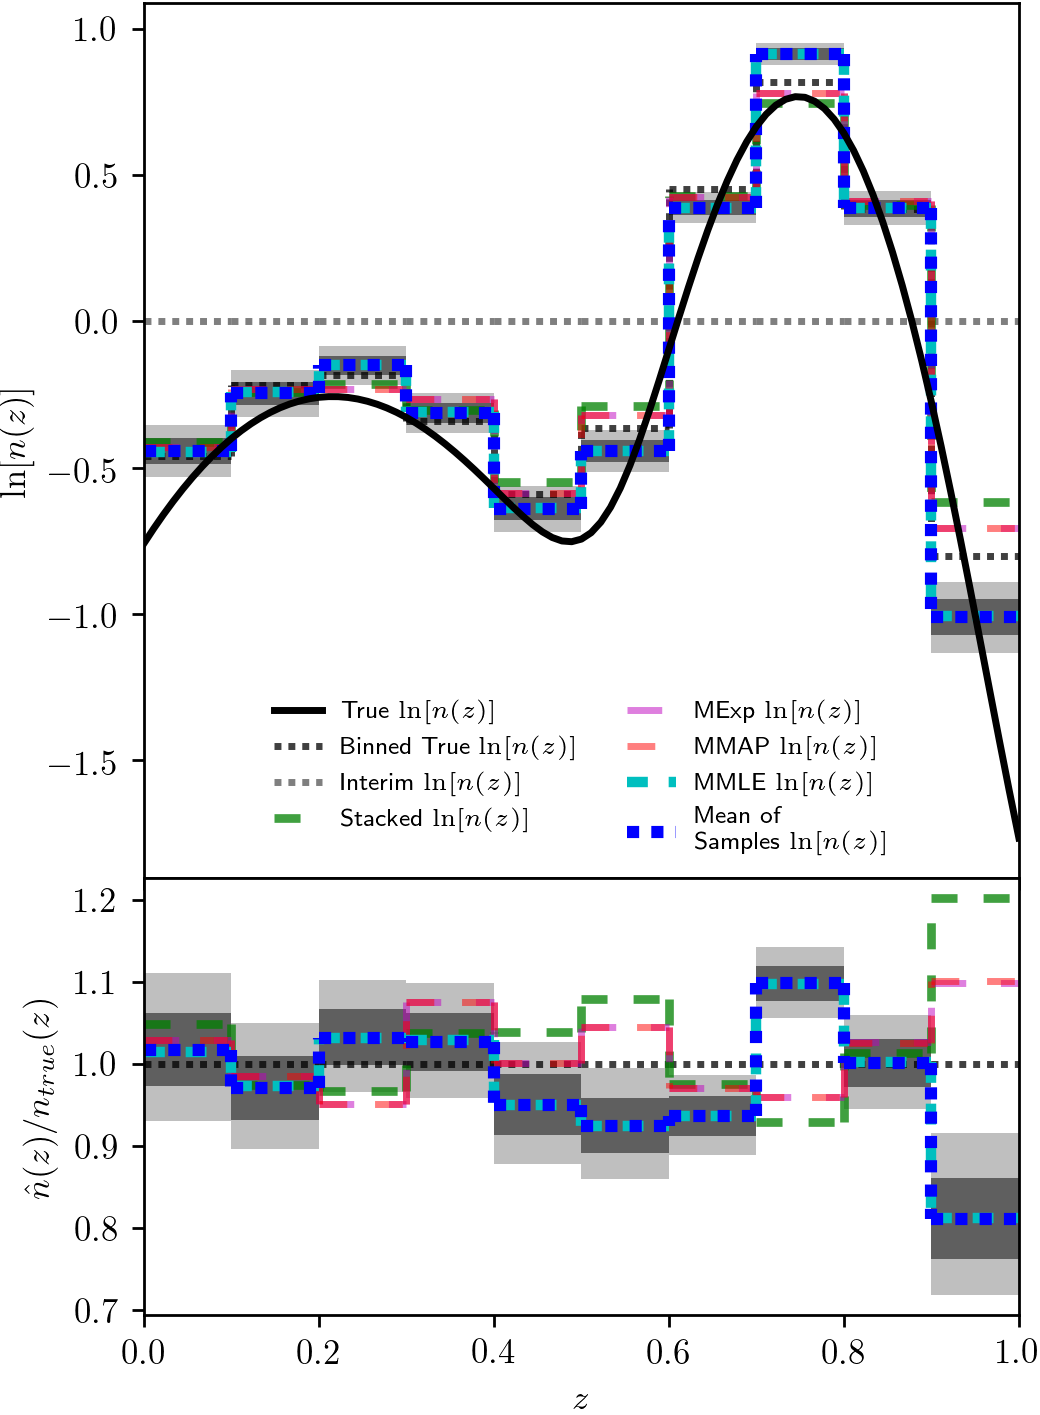
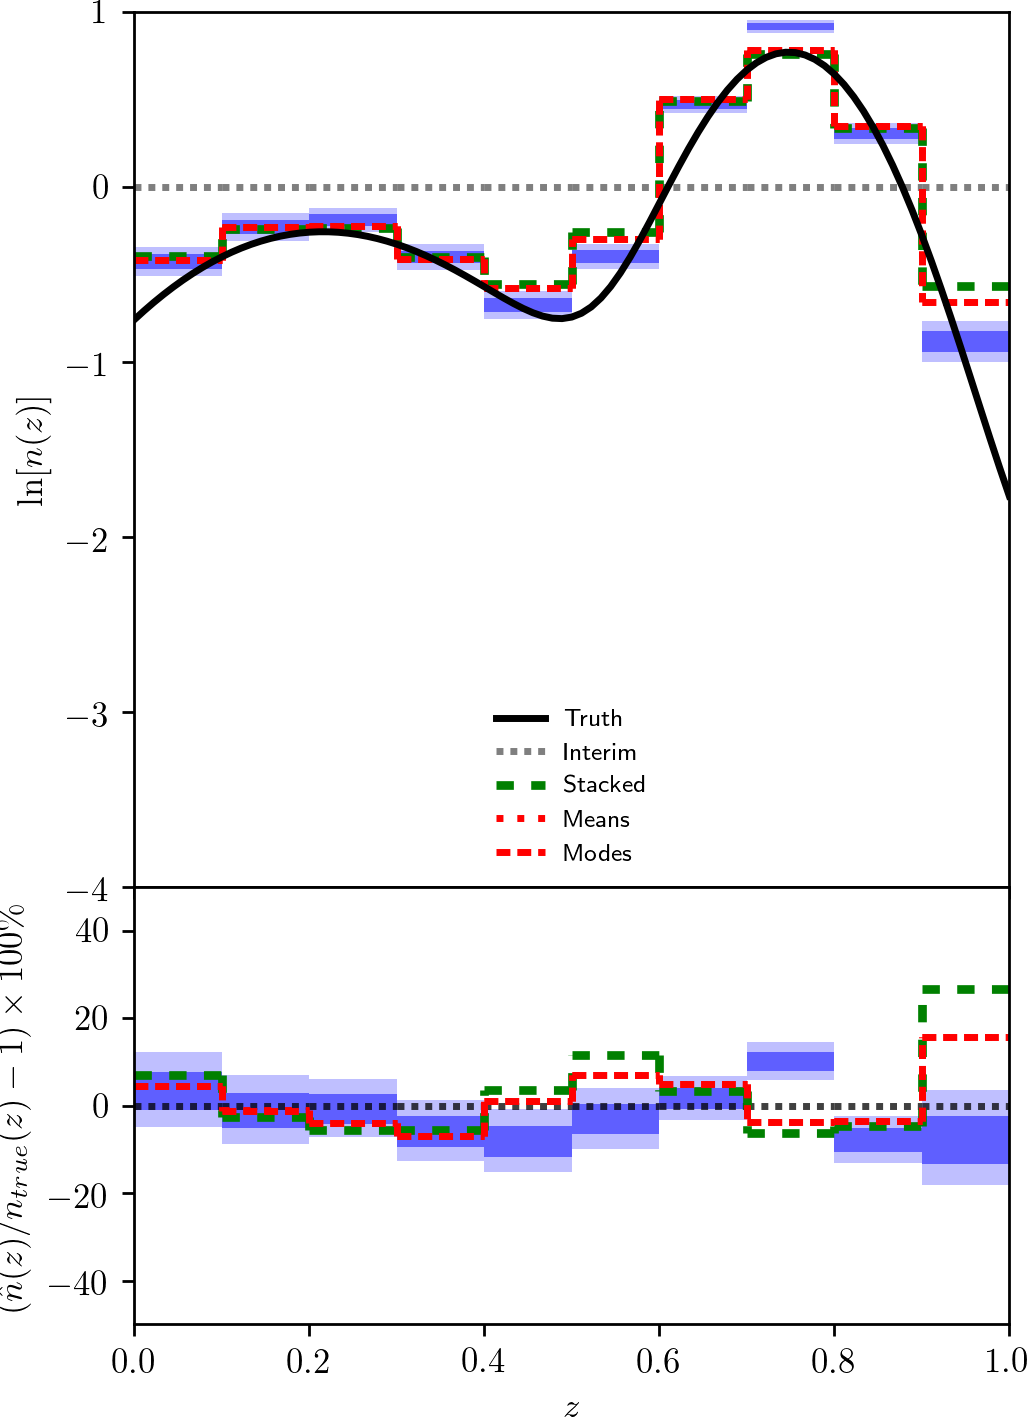
updating figures, changing training_outliers test implementation

diff --git a/chippr/log_z_dens_plots.py b/chippr/log_z_dens_plots.py
@@ -15,16 +15,16 @@ from chippr import stat_utils as s
 
 # defining some shared variables
 
-lnz, nz = r'$\ln[n(z)]$', r'$n(z)$'
+lnz, nz = '', ''#r'$\ln[n(z)]$', r'$n(z)$'
 
-s_tru, w_tru, a_tru, c_tru, d_tru, l_tru = '-', 2., 1., 'k', [(0, (1, 1))], 'True '
+s_tru, w_tru, a_tru, c_tru, d_tru, l_tru = '-', 2., 1., 'k', [(0, (1, 1))], 'Truth '
 s_tbp, w_tbp, a_tbp, c_tbp, d_tbp, l_tbp = ':', 2., 0.75, 'k', [(0, (1, 1))], 'Binned True '
 s_int, w_int, a_int, c_int, d_int, l_int = '-', 2., 0.5, 'k', [(0, (1, 1))], 'Interim '
-s_stk, w_stk, a_stk, c_stk, d_stk, l_stk = '--', 2.5, 0.75, 'g', [(0, (3, 3))], 'Stacked '
-s_map, w_map, a_map, c_map, d_map, l_map = '--', 2., 0.5, 'r', [(0, (4, 4))], 'MMAP '
-s_exp, w_exp, a_exp, c_exp, d_exp, l_exp = '--', 2., 0.5, 'm', [(0, (5, 5))], 'MExp '
-s_mle, w_mle, a_mle, c_mle, d_mle, l_mle = '-', 3., 1., 'c', [(0, (2, 2))], 'MMLE '
-s_bfe, w_bfe, a_bfe, c_bfe, d_bfe, l_bfe = '-', 3.5, 1., 'b', [(0, (1, 1))], 'Mean of\n Samples '
+s_stk, w_stk, a_stk, c_stk, d_stk, l_stk = '--', 2.5, 1., 'g', [(0, (2, 2))], 'Stacked '
+s_map, w_map, a_map, c_map, d_map, l_map = '--', 2., 1., 'r', [(0, (2, 1))], 'Modes '
+s_exp, w_exp, a_exp, c_exp, d_exp, l_exp = '--', 2., 1., 'r', [(0, (1, 2))], 'Means '
+s_mle, w_mle, a_mle, c_mle, d_mle, l_mle = '-', 3., 1., 'c', [(0, (2, 2))], 'HB Optimization '
+s_bfe, w_bfe, a_bfe, c_bfe, d_bfe, l_bfe = '-', 3.5, 1., 'b', [(0, (1, 1))], 'HB Samples '
 s_smp, w_smp, a_smp, c_smp, d_smp, l_smp = '-', 2., 1., 'k', [(0, (1, 1))], 'Sampled '
 
 def plot_ivals(ivals, info, plot_dir):
@@ -277,9 +277,10 @@ def plot_estimators(info, plot_dir):
         sps_log = f.add_subplot(gs[:-1, :])
         sps_log.set_xticklabels([])
         mini_sps = f.add_subplot(gs[-1, :])
+        mini_sps.set_ylim(-50, 50)
         mini_sps.set_xlim(info['bin_ends'][0], info['bin_ends'][-1])
         mini_sps.set_xlabel(r'$z$')
-        mini_sps.set_ylabel(r'$\hat{n}(z) / n_{true}(z)$')
+        mini_sps.set_ylabel(r'$\left(\hat{n}(z) / n_{true}(z) - 1\right) \times 100\%$')
         # mini_sps.ticklabel_format(style='sci',axis='y')
         bin_log_true = info['log_tru_nz']
         bin_true = np.exp(bin_log_true)
@@ -291,9 +292,9 @@ def plot_estimators(info, plot_dir):
         # black_plots.append(tru)
         # black_labels.append(l_tru+lnz)
         #tbp, =
-        pu.plot_step(sps_log, info['bin_ends'], bin_log_true, w=w_tbp,
-                        s=s_tbp, a=a_tbp, c=c_tbp, d=d_tbp, l=l_tbp+lnz)
-        pu.plot_step(mini_sps, info['bin_ends'], bin_true / bin_true,
+        # pu.plot_step(sps_log, info['bin_ends'], bin_log_true, w=w_tbp,
+        #                 s=s_tbp, a=a_tbp, c=c_tbp, d=d_tbp, l=l_tbp+lnz)
+        pu.plot_step(mini_sps, info['bin_ends'], ((bin_true / bin_true) - 1.) * 100.,
                         w=w_tbp, s=s_tbp, a=a_tbp, c=c_tbp, d=d_tbp)
         # black_plots.append(tbp)
         # black_labels.append(l_tbp+lnz)
@@ -304,7 +305,7 @@ def plot_estimators(info, plot_dir):
 
     # sps_log.set_yscale("log")
     sps_log.ticklabel_format(style='sci',axis='y')
-    # print('this far')
+    sps_log.set_ylim(-4., 1.)
     sps_log.set_xlim(info['bin_ends'][0], info['bin_ends'][-1])
     sps_log.set_ylabel(r'$\ln[n(z)]$')
 
@@ -334,7 +335,7 @@ def plot_estimators(info, plot_dir):
         # color_labels.insert(0, l_stk+lnz)
         if info['truth'] is not None:
             pu.plot_step(mini_sps, info['bin_ends'],
-                            np.exp(info['estimators']['log_stacked_nz']) / bin_true,
+                            (np.exp(info['estimators']['log_stacked_nz']) / bin_true - 1.) * 100.,
                             w=w_stk, s=s_stk, a=a_stk, c=c_stk, d=d_stk)
 
     if 'log_mexp_nz' in info['estimators']:
@@ -346,7 +347,7 @@ def plot_estimators(info, plot_dir):
         # color_labels.insert(0, l_exp+lnz)
         if info['truth'] is not None:
             pu.plot_step(mini_sps, info['bin_ends'],
-                            np.exp(info['estimators']['log_mexp_nz']) / bin_true,
+                            (np.exp(info['estimators']['log_mexp_nz']) / bin_true - 1.) * 100.,
                             w=w_exp, s=s_exp, a=a_exp, c=c_exp, d=d_exp)
 
     if 'log_mmap_nz' in info['estimators']:
@@ -358,20 +359,8 @@ def plot_estimators(info, plot_dir):
         # color_labels.insert(0, l_map+lnz)
         if info['truth'] is not None:
             pu.plot_step(mini_sps, info['bin_ends'],
-                            np.exp(info['estimators']['log_mmap_nz']) / bin_true,
+                            (np.exp(info['estimators']['log_mmap_nz']) / bin_true - 1.) * 100.,
                             w=w_map, s=s_map, a=a_map, c=c_map, d=d_map)
-
-    if 'log_mmle_nz' in info['estimators']:
-        # mle, =
-        pu.plot_step(sps_log, info['bin_ends'],
-                        info['estimators']['log_mmle_nz'], w=w_mle,
-                        s=s_mle, a=a_mle, c=c_mle, d=d_mle, l=l_mle+lnz)
-        # color_plots.insert(0, mle)
-        # color_labels.insert(0, l_mle+lnz)
-        if info['truth'] is not None:
-            pu.plot_step(mini_sps, info['bin_ends'],
-                            np.exp(info['estimators']['log_mmle_nz']) / bin_true,
-                            w=w_mle, s=s_mle, a=a_mle, c=c_mle, d=d_mle)
 
     if 'log_mean_sampled_nz' in info['estimators']:
         plot_samples(info, plot_dir)
@@ -387,14 +376,14 @@ def plot_estimators(info, plot_dir):
             #             np.exp(locs[k] + scales[k]), np.exp(locs[k] - scales[k])]
             # y_errs_2 = [np.exp(locs[k] - 2 * scales[k]), np.exp(locs[k] + 2 * scales[k]),
             #             np.exp(locs[k] + 2 * scales[k]), np.exp(locs[k] - 2 * scales[k])]
-            sps_log.fill(x_errs, log_y_errs_1, color='k', alpha=0.5,
+            sps_log.fill(x_errs, log_y_errs_1, color=c_bfe, alpha=0.5,
                             linewidth=0.)
-            sps_log.fill(x_errs, log_y_errs_2, color='k', alpha=0.25,
+            sps_log.fill(x_errs, log_y_errs_2, color=c_bfe, alpha=0.25,
                             linewidth=0.)
         # bfe, =
-        pu.plot_step(sps_log, info['bin_ends'],
-                        info['estimators']['log_mean_sampled_nz'],
-                        w=w_bfe, s=s_bfe, a=a_bfe, c=c_bfe, d=d_bfe, l=l_bfe+lnz)
+        # pu.plot_step(sps_log, info['bin_ends'],
+        #                 info['estimators']['log_mean_sampled_nz'],
+        #                 w=w_bfe, s=s_bfe, a=a_bfe, c=c_bfe, d=d_bfe, l=l_bfe+lnz)
         # color_plots.insert(0, bfe)
         # color_labels.insert(0, l_bfe+lnz)
         if info['truth'] is not None:
@@ -405,16 +394,28 @@ def plot_estimators(info, plot_dir):
                         locs[k] + scales[k], locs[k] - scales[k]])) / bin_true[k]
                 y_errs_2 = np.exp(np.array([locs[k] - 2 * scales[k], locs[k] + 2 * scales[k],
                         locs[k] + 2 * scales[k], locs[k] - 2 * scales[k]])) / bin_true[k]
-                mini_sps.fill(x_errs, y_errs_1, color='k', alpha=0.5,
+                mini_sps.fill(x_errs, (y_errs_1 - 1.) * 100., color=c_bfe, alpha=0.5,
                             linewidth=0.)
-                mini_sps.fill(x_errs, y_errs_2, color='k', alpha=0.25,
+                mini_sps.fill(x_errs, (y_errs_2 - 1.) * 100., color=c_bfe, alpha=0.25,
                             linewidth=0.)
+            # pu.plot_step(mini_sps, info['bin_ends'],
+            #                 (1. - np.exp(info['estimators']['log_mean_sampled_nz']) / bin_true) * 100.,
+            #                 w=w_bfe, s=s_bfe, a=a_bfe, c=c_bfe, d=d_bfe)
+
+    elif 'log_mmle_nz' in info['estimators']:
+        # mle, =
+        pu.plot_step(sps_log, info['bin_ends'],
+                        info['estimators']['log_mmle_nz'], w=w_mle,
+                        s=s_mle, a=a_mle, c=c_mle, d=d_mle, l=l_mle+lnz)
+        # color_plots.insert(0, mle)
+        # color_labels.insert(0, l_mle+lnz)
+        if info['truth'] is not None:
             pu.plot_step(mini_sps, info['bin_ends'],
-                            np.exp(info['estimators']['log_mean_sampled_nz']) / bin_true,
-                            w=w_bfe, s=s_bfe, a=a_bfe, c=c_bfe, d=d_bfe)
+                            (np.exp(info['estimators']['log_mmle_nz']) / bin_true - 1.) * 100.,
+                            w=w_mle, s=s_mle, a=a_mle, c=c_mle, d=d_mle)
 
     # sps_log.legend(handles=color_plots[:-1], fontsize='x-small', loc='lower center', frameon=False)
-    sps_log.legend(ncol=2, fontsize='x-small', loc='lower center', frameon=False)
+    sps_log.legend(fontsize='x-small', loc='lower center', frameon=False)
     f.subplots_adjust(hspace=0, wspace=0)
     f.savefig(os.path.join(plot_dir, 'estimators.png'), bbox_inches='tight', pad_inches = 0, dpi=d.dpi)
 

diff --git a/chippr/catalog.py b/chippr/catalog.py
@@ -94,7 +94,7 @@ class catalog(object):
         """
         coarse = fine / (np.sum(fine) * self.dz_fine)
         coarse = np.array([np.sum(coarse[k * self.n_fine : (k+1) * self.n_fine]) * self.dz_fine for k in range(self.n_coarse)])
-        coarse /= self.dz_coarse
+        coarse /= np.sum(coarse * self.dz_coarse)
 
         return coarse
 
@@ -130,6 +130,8 @@ class catalog(object):
         self.int_pr = int_pr
 
         self.obs_lfs = self.evaluate_lfs()
+        for n in self.samp_range:
+            self.obs_lfs[n] /= np.sum(self.obs_lfs[n]) * self.dz_fine
 
         int_pr_fine = self.int_pr.evaluate(self.z_fine)
         int_pr_coarse = self.coarsify(int_pr_fine)
@@ -165,31 +167,35 @@ class catalog(object):
             "observed" values
         """
         if not self.params['variable_sigmas']:
-            true_lfs = [gauss(self.true_samps[n], self.params['constant_sigma']**2) for n in self.samp_range]
+            self.true_lfs = [gauss(self.true_samps[n], self.params['constant_sigma']**2) for n in self.samp_range]
         if self.params['catastrophic_outliers'] != 0:
             # will add in functionality for multiple outlier populations soon!
             outlier_lf = gauss(self.params['outlier_mean'], self.params['outlier_sigma']**2)
 
         # fix these conditional checks for efficiency!
         obs_samps = np.zeros(self.n_items) - 1.
+        flagged = np.zeros(self.n_items)
         if self.params['catastrophic_outliers'] == 'template':
             for n in self.samp_range:
                 if np.random.uniform() < self.params['outlier_fraction']:
                     obs_samps[n] = outlier_lf.sample_one()
                 else:
-                    obs_samps[n] = true_lfs[n].sample_one()
-        elif self.params['catastrophic_outliers'] == 'training':
-            for n in self.samp_range:
-                if np.random.uniform() < outlier_lf.evaluate(self.true_samps[n]):
-                    obs_samps[n] = np.random.uniform(self.z_min, self.z_max)
-                else:
-                    obs_samps[n] = true_lfs[n].sample_one()
-            #     obs_samps[n] = [true_lfs[n].sample_one(), [outlier_lf.sample_one(), ]
-            # else:
-            #     print(self.params['catastrophic_outliers'] + ' is not supported.')
+                    obs_samps[n] = self.true_lfs[n].sample_one()
+        # elif self.params['catastrophic_outliers'] == 'training':
+        #     for n in self.samp_range:
+        #         obs_samps[n] = true_lfs[n].sample_one()# p.random.uniform(self.z_min, self.z_max)
+        #         if np.random.uniform() < outlier_lf.evaluate(self.true_samps[n]):# true_lfs[n].evaluate(obs_samps[n]) < outlier_lf.evaluate(obs_samps[n]):
+        #             flagged[n] += 1
+        #             # obs_samps[n] = np.random.uniform(self.z_min, self.z_max)
+        #         # else:
+        #         # obs_samps[n] = true_lfs[n].sample_one()
+        #     #     obs_samps[n] = [true_lfs[n].sample_one(), [outlier_lf.sample_one(), ]
+        #     # else:
+        #     #     print(self.params['catastrophic_outliers'] + ' is not supported.')
+        #     self.flagged = flagged
         else:
             for n in self.samp_range:
-                obs_samps[n] = true_lfs[n].sample_one()
+                obs_samps[n] = self.true_lfs[n].sample_one()
 
         return obs_samps
 
@@ -206,16 +212,29 @@ class catalog(object):
         # taking out functionality for variable sigmas for now
         # if not self.params['variable_sigmas']:
         lfs_fine = [gauss(self.z_fine[kk], self.params['constant_sigma']**2) for kk in range(self.n_tot)]
-        obs_lfs = (1.-self.params['outlier_fraction']) * np.array([lfs_fine[kk].evaluate(self.obs_samps) for kk in range(self.n_tot)])
+        obs_lfs = np.array([lfs_fine[kk].evaluate(self.obs_samps) for kk in range(self.n_tot)])
         if type(self.params['catastrophic_outliers']) == str:
             outlier_lf = gauss(self.params['outlier_mean'], self.params['outlier_sigma']**2)
             if self.params['catastrophic_outliers'] == 'template':
+                obs_lfs = (1.-self.params['outlier_fraction']) * obs_lfs
                 obs_lfs += self.params['outlier_fraction'] * outlier_lf.evaluate(self.obs_samps)
             elif self.params['catastrophic_outliers'] == 'training':
-                # for n in self.samp_range:
-                #     if np.random.uniform() < self.params['outlier_fraction']:
-                obs_lfs += self.params['outlier_fraction'] * outlier_lf.evaluate(self.z_fine)[:, np.newaxis]
-
+                # out_frac = np.sum(self.flagged) / len(self.flagged)
+                # component = outlier_lf.evaluate(self.z_fine)
+                # obs_lfs *= * np.array([lfs_fine[kk].evaluate(self.obs_samps) for kk in range(self.n_tot)])
+                obs_lfs = obs_lfs.T
+                for n in self.samp_range:
+                    if np.random.uniform() < self.params['outlier_fraction']:
+                        ratio = outlier_lf.evaluate(self.true_samps[n])#np.random.uniform()
+                        # lf = gauss(self.obs_samps[n], self.params['constant_sigma']**2)
+                        obs_lfs[n] *= (1.-ratio)#lf.evaluate(self.true_samps[n])
+                        out_val = np.random.uniform(self.z_min, self.z_max)
+                        obs_lfs[n] += ratio * np.array([lfs_fine[kk].evaluate(out_val) for kk in range(self.n_tot)])
+                obs_lfs = obs_lfs.T
+                    # else:
+                    #     obs_lfs = np.array([lfs_fine[kk].evaluate(self.obs_samps[n]) for kk in range(self.n_tot)])
+        # else:
+        #     obs_lfs = np.array([lfs_fine[kk].evaluate(self.obs_samps) for kk in range(self.n_tot)])
         return obs_lfs.T
 
     def write(self, loc='data', style='.txt'):
